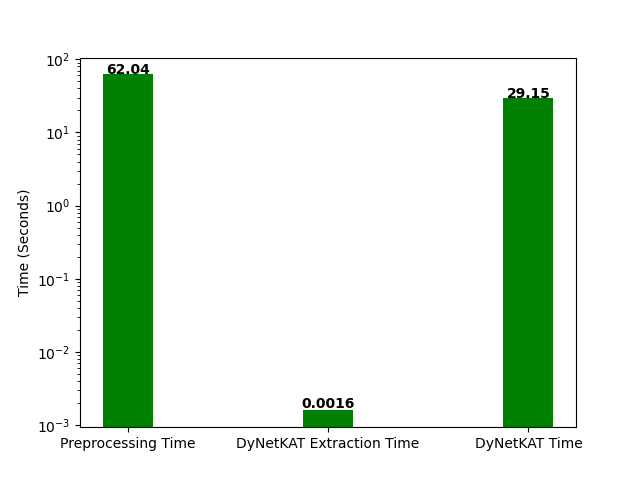
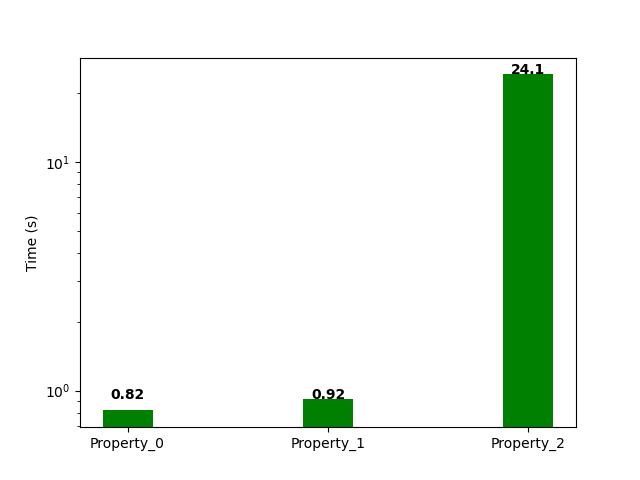
new result !

diff --git a/FPSDN/FPSDN.py b/FPSDN/FPSDN.py
@@ -595,21 +595,6 @@ def fattree_result(maude_path, netkat_katbv_path):
     example_path = save_DyNetKAT_path
 
 
-    # h2h8_h5h7_h1h8_h1h7fault ---> Fattree_2
-    in_packets = {"h1toh7": "(pt = 5)"}
-    out_packets = {"h1toh7": "(pt = 20)"}
-    properties = {
-            "h1toh7": [
-                         ("r", "(head(@Program))", "=0", 2),
-                        ("r", "(head(tail(@Program, { rcfg(S53252Reqflow1, \"one\") , rcfg(S53252Upflow1, \"pt = 5 . pt <- 6\") })))", "=0", 3),
-                        ("r", "(head(tail(tail(@Program, { rcfg(S53252Reqflow1, \"one\") , rcfg(S53252Upflow1, \"pt = 5 . pt <- 6\") }), { rcfg(S53322Reqflow1, \"one\") , rcfg(S53322Upflow1, \"pt = 12 . pt <- 13\") })))", "=0", 5)
-                        ]
-            }
-
-    data['in_packets'] = in_packets
-    data['out_packets'] = out_packets
-    data['properties'] = properties
-
 
     ports = allocate_ports(topo_graph)
     os.makedirs(os.path.dirname(ports_path), exist_ok=True)
@@ -620,22 +605,44 @@ def fattree_result(maude_path, netkat_katbv_path):
     write_log(packets, after_preprocessing_log_path)
     Save_Json(data, save_DyNetKAT_path)
 
-    print("Checking DyNetKAT Properties...")
+    # h2h8_h5h7_h1h8_h1h7fault ---> Fattree_2
+    in_packets = {"h1toh7": "(pt = 5)"}
+    out_packets = {"h1toh7": "(pt = 20)"}
+    data['in_packets'] = in_packets
+    data['out_packets'] = out_packets
 
-    DyNetiKAT_output = subprocess.run(["python3", "dnk.py", "--time-stats" , maude_path, netkat_katbv_path, example_path],
-                                    capture_output=True, text=True)
-    output = DyNetiKAT_output.stdout.strip()
-
-    print(output)
-    match_value = re.search(r'DyNetKAT Total time: (\d+.\d+) seconds', output)
-    DyNetKat_total_time = float(match_value.group(1))
-    DyNetKat_total_time = float("{:.2f}".format(DyNetKat_total_time))
+    p =[("r", "(head(@Program))", "=0", 2),
+        ("r", "(head(tail(@Program, { rcfg(S53252Reqflow1, \"one\") , rcfg(S53252Upflow1, \"pt = 5 . pt <- 6\") })))", "=0", 3),
+        ("r", "(head(tail(tail(@Program, { rcfg(S53252Reqflow1, \"one\") , rcfg(S53252Upflow1, \"pt = 5 . pt <- 6\") }), { rcfg(S53322Reqflow1, \"one\") , rcfg(S53322Upflow1, \"pt = 12 . pt <- 13\") })))", "=0", 5)
+    ]
+    
+    properties = {
+            "h1toh7": []
+            }
 
     times = []
-    times.append(preprocessing_time)
-    times.append(rules_extraction_time)
-    times.append(DyNetKat_total_time)
+    
+    for i in range(len(p)):
+        print("Checking DyNetKAT Property ", i)
+        properties["h1toh7"] = [p[i]]
+        data['properties'] = properties
+        Save_Json(data, save_DyNetKAT_path)
 
+        # print("data: ", data)
+
+        DyNetiKAT_output = subprocess.run(["python3", "dnk.py", "--time-stats" , maude_path, netkat_katbv_path, example_path],
+                                        capture_output=True, text=True)
+        output = DyNetiKAT_output.stdout.strip()
+
+        print(output)
+        # TODO : write property output for each property
+        match_value = re.search(r'DyNetKAT Total time: (\d+.\d+) seconds', output)
+        DyNetKat_total_time = float(match_value.group(1))
+        DyNetKat_total_time = float("{:.4f}".format(DyNetKat_total_time))
+        times.append(DyNetKat_total_time)
+
+
+    print(times)
 
     draw_results(times)
 
@@ -644,13 +651,20 @@ def fattree_result(maude_path, netkat_katbv_path):
 def draw_results(times):
     n = len(times)
     bar_width = 0.05
-    x = [0.1, 0.3, 0.5]
+    x = []
+    x1 = 0.1
+    xtickes = []
+    for i in range(n):
+        x.append(x1)
+        x1 += 0.2
+        text = "Property_" + str(i)
+        xtickes.append(text)
 
     plt.bar([p for p in x], times, width=bar_width, label="Total Extraction Time", color='g', align="center")
 
     plt.xlabel("")
     plt.ylabel("Time (s)")
-    xticks_label = ["Preprocessing Time", "DyNetKAT Extraction Time","DyNetKAT Time"]
+    xticks_label = xtickes
     plt.xticks([p for p in x],xticks_label)
     plt.yscale('log')
 
@@ -730,11 +744,11 @@ if __name__ == "__main__":
 
     parser = optparse.OptionParser()
     parser.add_option("-e", "--extraction-expriments", dest="extraction_expriments", default=False, action="store_true",
-                      help="Extract Topology and DyNetKAT rules of expriments and save results.")
+                      help="Extract Topology and DyNetKAT rules of expriments (linear topology with 4 switches, linear topology with 10 switches, fattree topology, fattree topology with more complicated log file) and save results.")
     parser.add_option("-f", "--fattree-expriment", dest="fattree_expriment", default=False, action="store_true",
-                      help="Extract Topology and DyNetKAT rules of Fattree example and save results.")
+                      help="Fault Scenario: Extract Topology and DyNetKAT rules of Fattree example and save results.")
     parser.add_option("-l", "--from-logfile", dest="from_logfile", default=False, action="store_true",
-                      help="Extract Topology and DyNetKAT rules of your logfile (provide correct lof file path).")
+                      help="Extract Topology and DyNetKAT rules of your specific logfile (provide correct lof file path).")
     
     
     (options, args) = parser.parse_args()
@@ -770,7 +784,7 @@ if __name__ == "__main__":
         fattree_result(maude_path, netkat_path)
 
     if options.from_logfile:
-        extraction_from_logfile
+        extraction_from_logfile(args[2])
         
 
 
